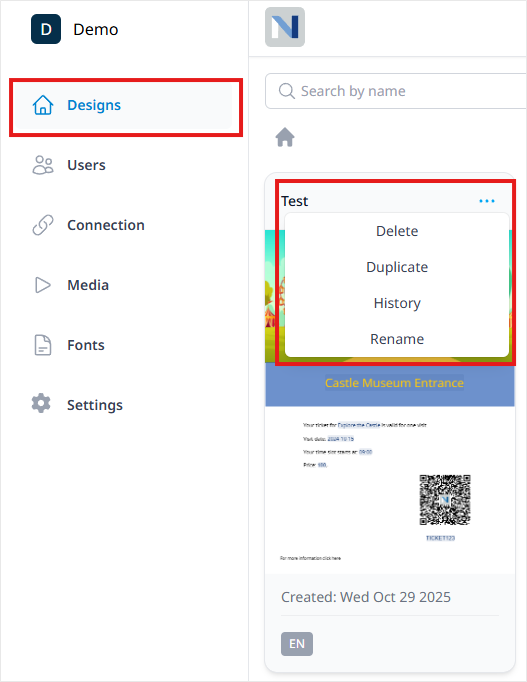
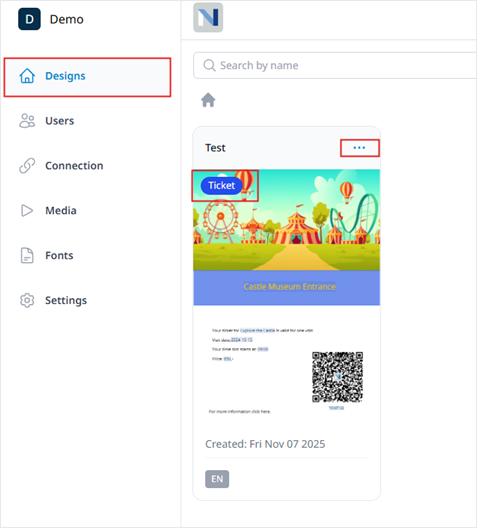
DOC-220 NP Designer app upgrade

diff --git a/content/en/docs/entertainment/ticket/how-to/ticket_designer/index.md b/content/en/docs/entertainment/ticket/how-to/ticket_designer/index.md
@@ -35,7 +35,7 @@ To access the NP Designer application, only the user's email address is required
 
 The **Designs** page is the main workspace in NP Designer, where users create and manage ticket layouts. New tickets can be started from a blank design or by duplicating an existing one. All designs are shown as cards with a preview, name, creation date, and language. Users can add new designs via the Add new design button, or organize them into folders using Add new folder.
 
-<!-- ![designs](images/Designs_Page.png) -->
+When creating a new design in NP Designer, the user can choose the design type:  **Ticket**, **Voucher**, or **Coupon**. After the design is created, it is automatically marked with the selected type, making it easy to identify and manage within the system.
 
 Each design card also includes an options menu where users can delete, duplicate, and see the history of changes or rename designs.
 
@@ -44,8 +44,6 @@ Each design card also includes an options menu where users can delete, duplicate
 ### Ticket creation
 
 The **Designs** page provides a canvas for creating and customizing ticket layouts, supported by intuitive tools for flexible design. At the top, users can name the design and set the language, while changes can be saved anytime using the Save button.
-
-<!-- ![ticket_creation](images/Ticket_Creation.png) -->
 
 On the left side of the editor, a toolbar gives access to design elements such as text, images, shapes, and QR or barcodes. Elements are added by dragging them onto the layout, where they can be positioned and resized.
 
